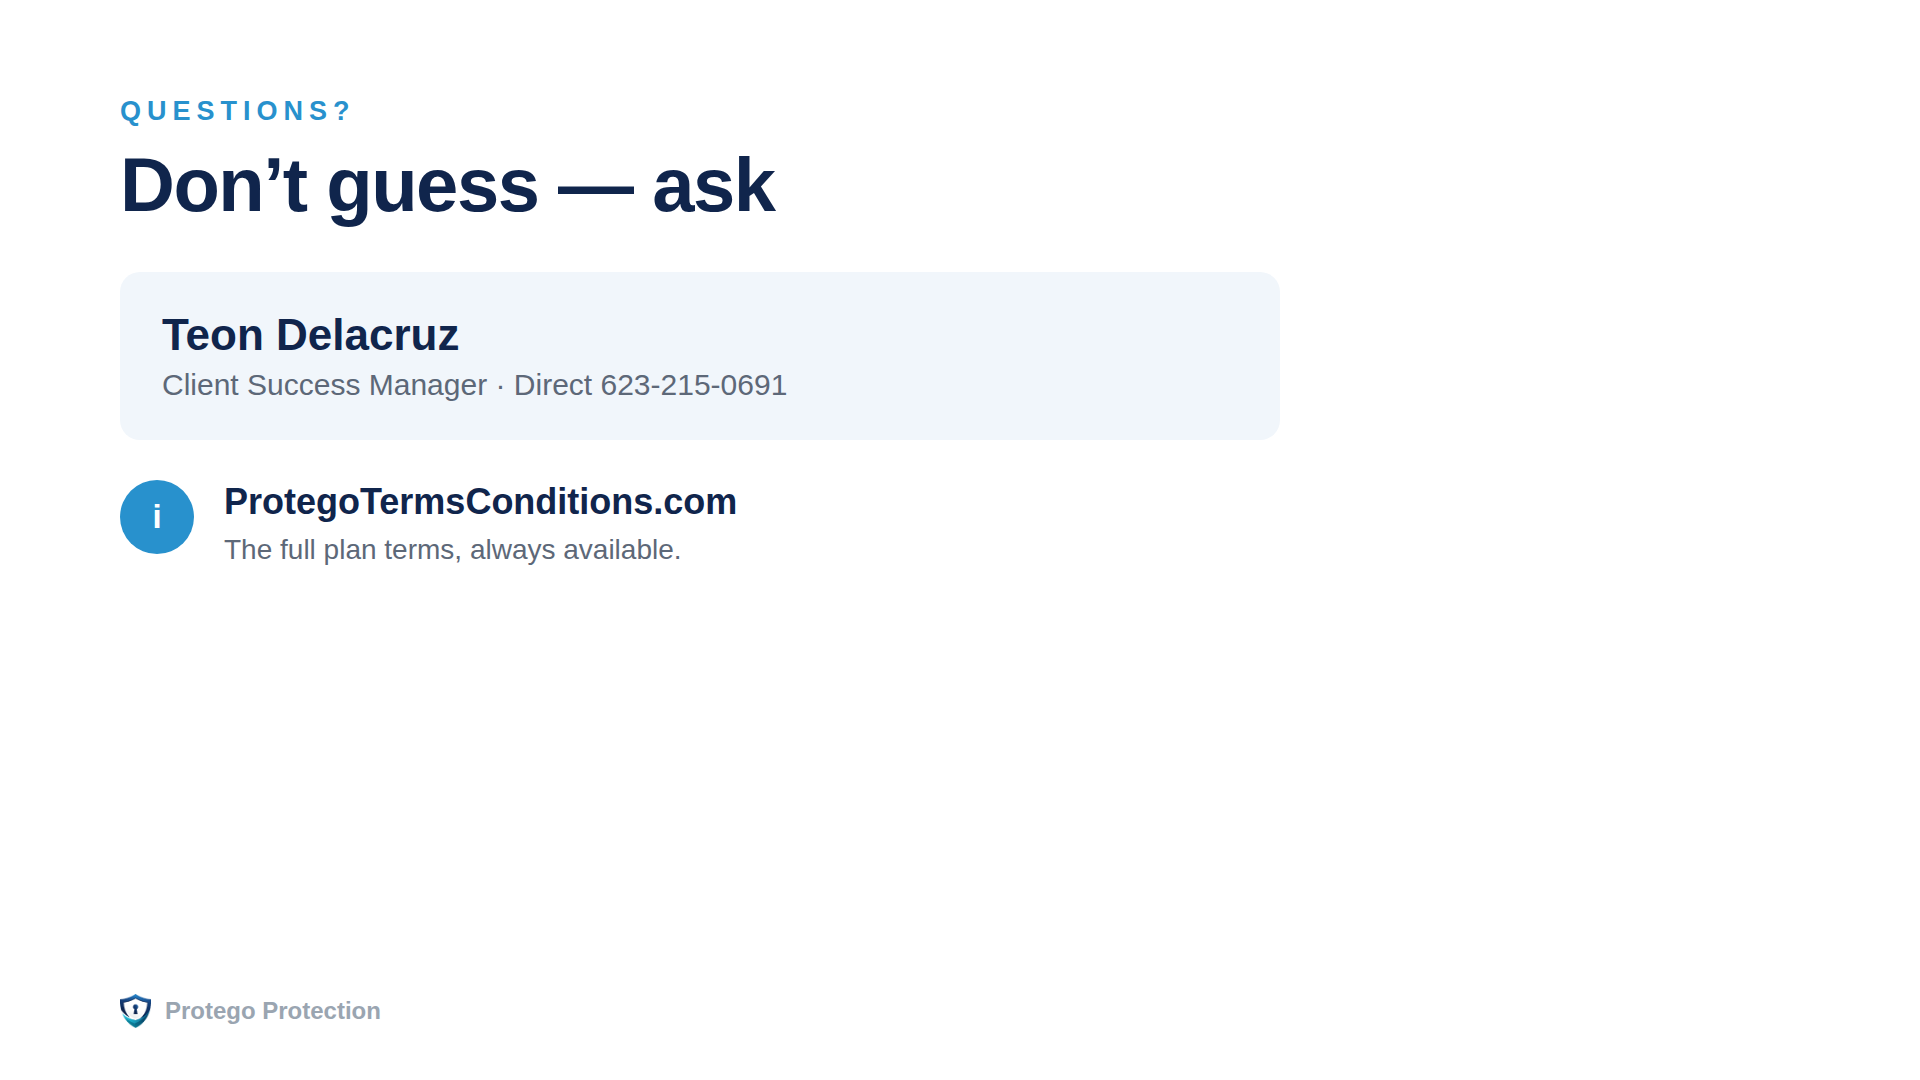
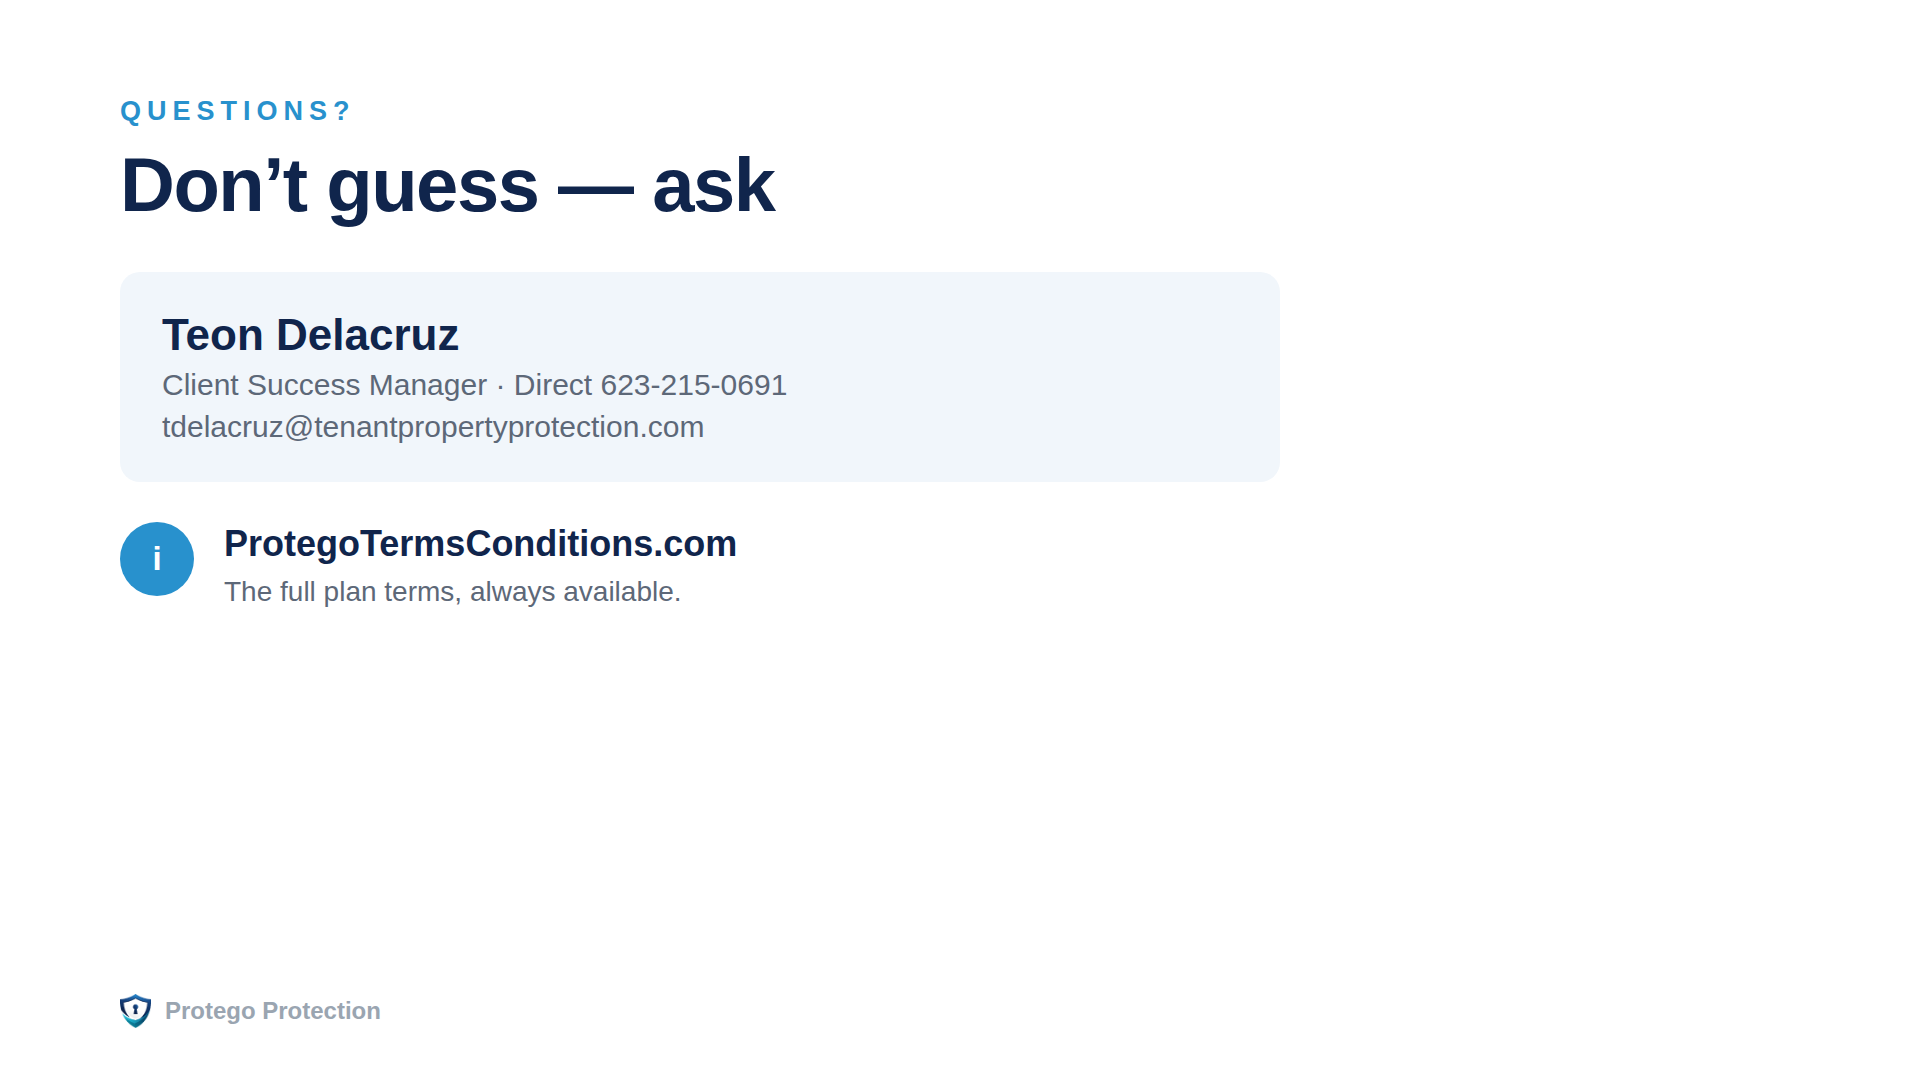
Add Teon Delacruz as the Protego contact
A Client Success Manager card leads the Support page — name, direct line
623-215-0691 and tdelacruz@tenantpropertyprotection.com — and the course's
closing contact slide carries the same email. Completions from the course
already report to that address.

Claude-Session: https://claude.ai/code/session_01SVBeaJqqY1w1riJ9JWxQJ1

Changed region(s): [[0.0625, 0.4278, 0.4062, 0.5806], [0.0938, 0.3667, 0.375, 0.4278]]

diff --git a/tools/slides/html-protego/19-contact.html b/tools/slides/html-protego/19-contact.html
@@ -44,5 +44,5 @@ td.fee{color:#2891CD;font-weight:800}
 .contact b{display:block;font-size:44px;color:#10254C}
 .contact span{display:block;font-size:30px;color:#5d6878;margin-top:8px}
 </style></head><body><div class='slide '><div class='stage'><div class='kick'>Questions?</div><h1>Don&rsquo;t guess &mdash; ask</h1>
-<div class='contact'><b>Teon Delacruz</b><span>Client Success Manager &middot; Direct 623-215-0691</span></div>
+<div class='contact'><b>Teon Delacruz</b><span>Client Success Manager &middot; Direct 623-215-0691</span><span>tdelacruz@tenantpropertyprotection.com</span></div>
[1 lines of base64/hex data omitted]

diff --git a/index.html b/index.html
@@ -559,6 +559,14 @@ footer a{color:#cdd6e6}
   <div class="eyebrow">Where each question goes</div>
   <h1 class="h1">Support</h1>
   <p class="lede">Send each question to the right place and it gets answered fastest.</p>
+  <div class="sect">
+    <div class="card" style="border-left:5px solid var(--red)">
+      <h3>Your Client Success Manager</h3>
+      <p style="margin-bottom:0"><b>Teon Delacruz</b> &mdash; Client Success Manager<br>
+         Direct <a href="tel:+16232150691"><b>623-215-0691</b></a> &middot;
+         <a href="mailto:tdelacruz@tenantpropertyprotection.com"><b>tdelacruz@tenantpropertyprotection.com</b></a><br>
+         Questions about the training, the documents or your program.</p></div>
+  </div>
   <div class="sect grid g2">
     <div class="card"><h3>Claims</h3>
       <p>Tenants file at <a href="https://protegoclaims.com" target="_blank" rel="noopener"><b>ProtegoClaims.com</b></a>

diff --git a/tools/slides/gen_protego.py b/tools/slides/gen_protego.py
@@ -197,7 +197,7 @@ add('18-recap', "<div class='kick'>You&rsquo;re ready</div><h1>Protego in one br
   + "</div>")
 
 add('19-contact', """<div class='kick'>Questions?</div><h1>Don&rsquo;t guess &mdash; ask</h1>
-<div class='contact'><b>Teon Delacruz</b><span>Client Success Manager &middot; Direct 623-215-0691</span></div>
+<div class='contact'><b>Teon Delacruz</b><span>Client Success Manager &middot; Direct 623-215-0691</span><span>tdelacruz@tenantpropertyprotection.com</span></div>
 <div class='rows' style='margin-top:40px'>"""
   + row("i", "ProtegoTermsConditions.com", "The full plan terms, always available.")
   + "</div>")
